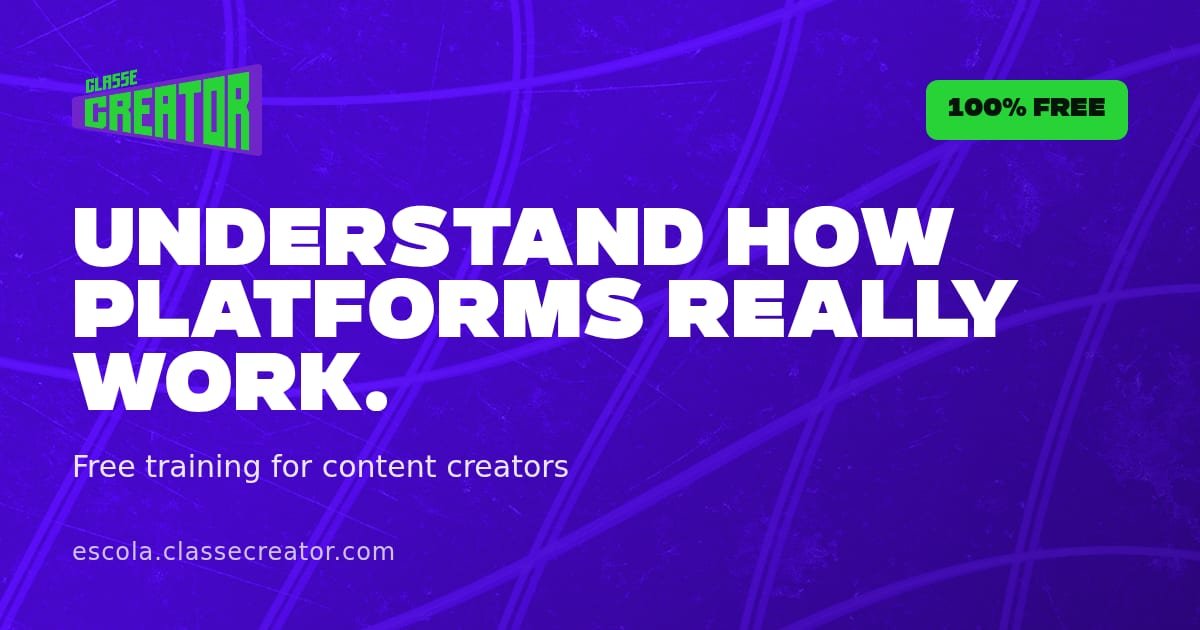
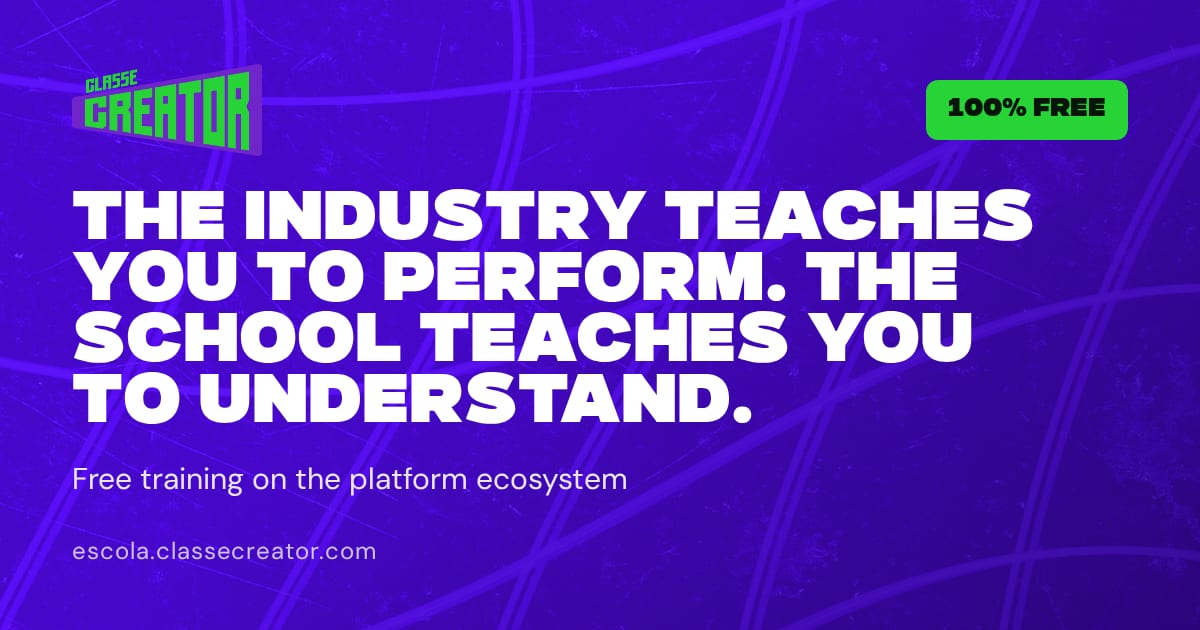
Landing: alinha textos à voz do site da Classe Creator
- Hero: "A indústria ensina você a performar. A Escola ensina você a entender."
  (segunda frase em verde) e descrição da Escola usada no site
- Manifesto: "Não é curso pra viralizar. É lugar pra pensar."
- Para quem é: inclui quem pesquisa e pensa (pesquisadores, jornalistas, estudantes)
- Quem faz: as três frentes da Classe Creator (pesquisa, formação, comunidade)
- Chamada final com "A Classe só existe com você"
- Imagens de compartilhamento com a nova frase e DM Sans

Claude-Session: https://claude.ai/code/session_01DEa6LFuBZr6zqk8hAGR7ML

Changed region(s): [[0.0617, 0.3016, 0.8633, 0.6937], [0.0617, 0.7238, 0.5242, 0.7841], [0.0617, 0.8444, 0.3392, 0.9048]]

diff --git a/i18n/dictionaries/es.ts b/i18n/dictionaries/es.ts
@@ -388,20 +388,22 @@ const es: Dictionary = {
     comecar: 'Empezar gratis',
     irParaAulas: 'Ir a mis clases',
     hero: {
-      eyebrow: 'Escuela Classe Creator · 100% gratuita',
-      titulo: 'Entiende el juego de las plataformas. De adentro hacia afuera.',
+      eyebrow: 'Escuela de Classe Creator · formación gratuita',
+      titulo: 'La industria te enseña a rendir.',
+      titulo2: 'La Escuela te enseña a entender.',
       texto:
-        'Una formación gratuita para que creadores, editores, diseñadores y gestores de comunidad entiendan cómo los algoritmos, la atención y los intereses comerciales deciden el alcance de su trabajo.',
+        'Formación gratuita sobre el ecosistema de las plataformas: cómo funcionan los algoritmos, cómo ganan dinero las plataformas y cómo encaja tu trabajo en todo eso.',
       cta: 'EMPEZAR GRATIS',
       ctaSecundario: 'Ver lo que vas a aprender',
-      provas: ['Sin costo, sin trampas', 'Certificado gratuito', 'A tu ritmo'],
+      provas: ['100% gratuita', 'Certificado sin costo', 'A tu ritmo'],
       previaRotulo: 'Primera ruta',
       previaMeta: '5 clases · Núcleo obligatorio',
     },
     manifesto: {
-      frase: 'Crear es trabajo.',
+      frase: 'No es un curso para hacerse viral.',
+      frase2: 'Es un lugar para pensar.',
       texto:
-        'Quien no entiende las reglas de las plataformas trabaja para quien sí las entiende. La escuela existe para devolver ese conocimiento a quien produce — sin peaje.',
+        'La Escuela es el frente de formación de Classe Creator: conocimiento gratuito sobre cómo funcionan de verdad las plataformas, para quien quiere entender la máquina antes de trabajar para ella.',
     },
     como: {
       eyebrow: 'Cómo funciona',
@@ -451,8 +453,9 @@ const es: Dictionary = {
     },
     paraQuem: {
       eyebrow: 'Para quién es',
-      titulo: 'Hecha para quien vive de crear',
-      itens: ['Creadores de contenido', 'Editores de video', 'Diseñadores', 'Guionistas', 'Gestores de comunidad', 'Quien está empezando'],
+      titulo: 'Para quien crea y para quien piensa las plataformas',
+      texto: 'Trabajadores culturales plataformizados y todas las personas que investigan y viven este universo.',
+      itens: ['Creadores de contenido', 'Editores', 'Guionistas', 'Diseñadores', 'Gestores de comunidad', 'Investigadores', 'Periodistas', 'Estudiantes'],
     },
     quem: {
       eyebrow: 'Quién la hace',
@@ -460,7 +463,7 @@ const es: Dictionary = {
       texto:
         'La escuela es creada por Filipe Severo — investigador, estratega de contenido y creador desde hace más de 10 años, con maestría en Comunicación por la PUCRS (Brasil) sobre el trabajo plataformizado en YouTube.',
       movimento:
-        'Forma parte de Classe Creator, un movimiento que reúne a quien crea para entender el sistema por dentro, y del Observatorio que mantiene Raio-X, una herramienta de auditoría algorítmica.',
+        'La Escuela es uno de los tres frentes de Classe Creator — investigación, formación y comunidad —, un espacio para quien quiere entender el sistema donde crea, no solo rendir dentro de él. La investigación viene del Observatorio, que mantiene Raio-X.',
     },
     faq: {
       eyebrow: 'Dudas',
@@ -477,10 +480,11 @@ const es: Dictionary = {
         },
         { p: '¿Cuánto tiempo lleva?', r: 'Vas a tu ritmo. Tu progreso se guarda y continúas donde lo dejaste.' },
         { p: '¿En qué idioma son las clases?', r: 'Las clases son en portugués. La plataforma puede usarse en portugués, inglés o español.' },
-        { p: '¿Necesito ser creador?', r: 'No. La escuela sirve tanto para quien está empezando como para quien ya trabaja con contenido.' },
+        { p: '¿Necesito ser creador?', r: 'No. La Escuela es para quien crea, edita, escribe, investiga o simplemente quiere entender mejor el sistema donde trabaja.' },
       ],
     },
     final: {
+      eyebrow: 'Classe solo existe contigo',
       titulo: 'Empieza ahora. Es gratis.',
       texto: 'Crea tu cuenta en menos de un minuto y empieza por el Núcleo.',
       cta: 'CREAR MI CUENTA',

diff --git a/i18n/dictionaries/pt.ts b/i18n/dictionaries/pt.ts
@@ -390,20 +390,22 @@ const pt = {
     comecar: 'Começar grátis',
     irParaAulas: 'Ir para minhas aulas',
     hero: {
-      eyebrow: 'Escola Classe Creator · 100% gratuita',
-      titulo: 'Entenda o jogo das plataformas. De dentro pra fora.',
+      eyebrow: 'Escola da Classe Creator · formação gratuita',
+      titulo: 'A indústria ensina você a performar.',
+      titulo2: 'A Escola ensina você a entender.',
       texto:
-        'Uma formação gratuita para criadores, editores, designers e gestores de comunidade entenderem como algoritmos, atenção e interesses comerciais decidem o alcance do seu trabalho.',
+        'Formação gratuita sobre o ecossistema das plataformas: como os algoritmos funcionam, como as plataformas ganham dinheiro e como o seu trabalho se encaixa nisso tudo.',
       cta: 'COMEÇAR GRÁTIS',
       ctaSecundario: 'Ver o que você vai aprender',
-      provas: ['Sem custo, sem pegadinha', 'Certificado gratuito', 'No seu ritmo'],
+      provas: ['100% gratuita', 'Certificado sem custo', 'No seu ritmo'],
       previaRotulo: 'Primeira trilha',
       previaMeta: '5 aulas · Núcleo obrigatório',
     },
     manifesto: {
-      frase: 'Criar é trabalho.',
+      frase: 'Não é curso pra viralizar.',
+      frase2: 'É lugar pra pensar.',
       texto:
-        'Quem não entende as regras das plataformas trabalha para quem entende. A escola existe para devolver esse conhecimento a quem produz — sem pedágio.',
+        'A Escola é a frente de formação da Classe Creator: conhecimento gratuito sobre como as plataformas funcionam de verdade, pra quem quer entender a máquina antes de trabalhar pra ela.',
     },
     como: {
       eyebrow: 'Como funciona',
@@ -453,8 +455,9 @@ const pt = {
     },
     paraQuem: {
       eyebrow: 'Para quem é',
-      titulo: 'Feita para quem vive de criar',
-      itens: ['Criadores de conteúdo', 'Editores de vídeo', 'Designers', 'Roteiristas', 'Gestores de comunidade', 'Quem está começando agora'],
+      titulo: 'Pra quem cria e pra quem pensa as plataformas',
+      texto: 'Trabalhadores culturais plataformizados e todo mundo que pesquisa e vive esse universo.',
+      itens: ['Criadores de conteúdo', 'Editores', 'Roteiristas', 'Designers', 'Gestores de comunidade', 'Pesquisadores', 'Jornalistas', 'Estudantes'],
     },
     quem: {
       eyebrow: 'Quem faz',
@@ -462,7 +465,7 @@ const pt = {
       texto:
         'A escola é criada por Filipe Severo — pesquisador, estrategista de conteúdo e criador há mais de 10 anos, com mestrado em Comunicação pela PUCRS sobre o trabalho plataformizado no YouTube.',
       movimento:
-        'Faz parte da Classe Creator, movimento que reúne quem cria para entender o sistema por dentro, e do Observatório que mantém o Raio-X, ferramenta de auditoria algorítmica.',
+        'A Escola é uma das três frentes da Classe Creator — pesquisa, formação e comunidade —, um espaço pra quem quer entender o sistema onde cria, não só performar dentro dele. A pesquisa vem do Observatório, que mantém o Raio-X.',
     },
     faq: {
       eyebrow: 'Dúvidas',
@@ -476,10 +479,11 @@ const pt = {
         { p: 'O certificado é reconhecido pelo MEC?', r: 'Não. É um certificado de conclusão de trilha formativa emitido pela Classe Creator.' },
         { p: 'Quanto tempo leva?', r: 'Você faz no seu ritmo. Seu progresso fica salvo e você continua de onde parou.' },
         { p: 'Em que idioma são as aulas?', r: 'As aulas são em português. A plataforma pode ser usada em português, inglês ou espanhol.' },
-        { p: 'Preciso já ser criador?', r: 'Não. A escola serve tanto para quem está começando quanto para quem já trabalha com conteúdo.' },
+        { p: 'Preciso já ser criador?', r: 'Não. A Escola é pra quem cria, edita, escreve, pesquisa ou simplesmente quer entender melhor o sistema onde trabalha.' },
       ],
     },
     final: {
+      eyebrow: 'A Classe só existe com você',
       titulo: 'Comece agora. É grátis.',
       texto: 'Crie sua conta em menos de um minuto e comece pelo Núcleo.',
       cta: 'CRIAR MINHA CONTA',

diff --git a/i18n/dictionaries/en.ts b/i18n/dictionaries/en.ts
@@ -388,20 +388,22 @@ const en: Dictionary = {
     comecar: 'Start for free',
     irParaAulas: 'Go to my lessons',
     hero: {
-      eyebrow: 'Classe Creator School · 100% free',
-      titulo: 'Understand how platforms really work. From the inside out.',
+      eyebrow: 'The Classe Creator School · free training',
+      titulo: 'The industry teaches you to perform.',
+      titulo2: 'The School teaches you to understand.',
       texto:
-        'Free training for creators, editors, designers and community managers to understand how algorithms, attention and business interests decide the reach of their work.',
+        'Free training on the platform ecosystem: how algorithms work, how platforms make money and how your work fits into all of it.',
       cta: 'START FOR FREE',
       ctaSecundario: "See what you'll learn",
-      provas: ['No cost, no catch', 'Free certificate', 'At your own pace'],
+      provas: ['100% free', 'Free certificate', 'At your own pace'],
       previaRotulo: 'First track',
       previaMeta: '5 lessons · Core track',
     },
     manifesto: {
-      frase: 'Creating is work.',
+      frase: "It's not a course to go viral.",
+      frase2: "It's a place to think.",
       texto:
-        "Whoever doesn't understand the rules of the platforms works for those who do. The school exists to give that knowledge back to the people who create — with no toll.",
+        "The School is Classe Creator's training front: free knowledge about how platforms really work, for people who want to understand the machine before working for it.",
     },
     como: {
       eyebrow: 'How it works',
@@ -451,8 +453,9 @@ const en: Dictionary = {
     },
     paraQuem: {
       eyebrow: "Who it's for",
-      titulo: 'Made for people who create for a living',
-      itens: ['Content creators', 'Video editors', 'Designers', 'Scriptwriters', 'Community managers', 'People just getting started'],
+      titulo: 'For those who create and those who think about platforms',
+      texto: 'Platformized cultural workers and everyone who researches and lives in this world.',
+      itens: ['Content creators', 'Editors', 'Scriptwriters', 'Designers', 'Community managers', 'Researchers', 'Journalists', 'Students'],
     },
     quem: {
       eyebrow: "Who's behind it",
@@ -460,7 +463,7 @@ const en: Dictionary = {
       texto:
         "The school is created by Filipe Severo — a researcher, content strategist and creator for over 10 years, with a master's degree in Communication from PUCRS (Brazil) on platformized labor on YouTube.",
       movimento:
-        'It is part of Classe Creator, a movement that brings together people who create to understand the system from the inside, and of the Observatory behind Raio-X, an algorithmic auditing tool.',
+        'The School is one of the three fronts of Classe Creator — research, training and community —, a space for people who want to understand the system they create in, not just perform inside it. The research comes from the Observatory, which runs Raio-X.',
     },
     faq: {
       eyebrow: 'FAQ',
@@ -477,10 +480,11 @@ const en: Dictionary = {
         },
         { p: 'How long does it take?', r: 'You go at your own pace. Your progress is saved and you pick up where you left off.' },
         { p: 'What language are the lessons in?', r: 'The lessons are in Portuguese. The platform can be used in Portuguese, English or Spanish.' },
-        { p: 'Do I need to be a creator already?', r: 'No. The school works both for people just starting out and for those already working with content.' },
+        { p: 'Do I need to be a creator already?', r: 'No. The School is for anyone who creates, edits, writes, researches or simply wants to better understand the system they work in.' },
       ],
     },
     final: {
+      eyebrow: 'Classe only exists with you',
       titulo: "Start now. It's free.",
       texto: 'Create your account in under a minute and start with the Core.',
       cta: 'CREATE MY ACCOUNT',

diff --git a/components/landing/Landing.tsx b/components/landing/Landing.tsx
@@ -81,7 +81,9 @@ export function Landing({ lang, t, logado }: Props) {
             <div className="grid items-center gap-12 lg:grid-cols-[1.25fr_1fr] [&>*]:min-w-0">
               <div>
                 <Eyebrow className="text-white/75">{L.hero.eyebrow}</Eyebrow>
-                <h1 className="mt-4 font-display text-[1.875rem] leading-[0.95] break-words sm:text-5xl lg:text-6xl">{L.hero.titulo}</h1>
+                <h1 className="mt-4 font-display text-[1.875rem] leading-[0.95] break-words sm:text-5xl lg:text-[3.25rem]">
+                  {L.hero.titulo} <span className="block mt-2 text-cc-green">{L.hero.titulo2}</span>
+                </h1>
                 <p className="mt-6 max-w-xl text-lg leading-relaxed text-white/85">{L.hero.texto}</p>
                 <div className="mt-8 flex flex-col gap-3 sm:flex-row sm:items-center">
                   <CtaPrincipal />
@@ -148,7 +150,8 @@ export function Landing({ lang, t, logado }: Props) {
 
         {/* MANIFESTO */}
         <section className="mx-auto max-w-4xl px-4 py-20 text-center sm:px-6 sm:py-28">
-          <p className="font-display text-[2.75rem] leading-none text-cc-green sm:text-7xl">{L.manifesto.frase}</p>
+          <p className="font-display text-[2.25rem] leading-[0.95] text-foreground sm:text-6xl">{L.manifesto.frase}</p>
+          <p className="mt-2 font-display text-[2.25rem] leading-[0.95] text-cc-green sm:text-6xl">{L.manifesto.frase2}</p>
           <p className="mx-auto mt-6 max-w-2xl text-lg leading-relaxed text-muted-foreground sm:text-xl">{L.manifesto.texto}</p>
           <p className="mt-6 label-caps text-cc-purple-text">{t.sobre.slogan}</p>
         </section>
@@ -254,9 +257,10 @@ export function Landing({ lang, t, logado }: Props) {
 
         {/* PARA QUEM */}
         <section className="mx-auto mt-24 max-w-6xl px-4 sm:px-6">
-          <SectionTitle eyebrow={L.paraQuem.eyebrow} className="mb-6">
+          <SectionTitle eyebrow={L.paraQuem.eyebrow} className="mb-3">
             {L.paraQuem.titulo}
           </SectionTitle>
+          <p className="mb-6 max-w-2xl text-muted-foreground">{L.paraQuem.texto}</p>
           <ul className="flex flex-wrap gap-3">
             {L.paraQuem.itens.map(item => (
               <li key={item} className="flex items-center gap-2 rounded-full border border-cc-line bg-cc-surface px-4 py-2.5 font-semibold">
@@ -318,7 +322,8 @@ export function Landing({ lang, t, logado }: Props) {
         {/* CHAMADA FINAL */}
         <section className="mx-auto mt-24 max-w-6xl px-4 pb-20 sm:px-6">
           <BrandBlock className="px-6 py-14 text-center sm:px-10 sm:py-20">
-            <h2 className="font-display text-4xl leading-none sm:text-6xl">{L.final.titulo}</h2>
+            <Eyebrow className="text-white/75">{L.final.eyebrow}</Eyebrow>
+            <h2 className="mt-3 font-display text-4xl leading-none sm:text-6xl">{L.final.titulo}</h2>
             <p className="mx-auto mt-5 max-w-xl text-lg text-white/85">{L.final.texto}</p>
             <Button asChild variant="cta" size="lg" font="display" className="mt-8">
               <Link href={ctaHref}>
